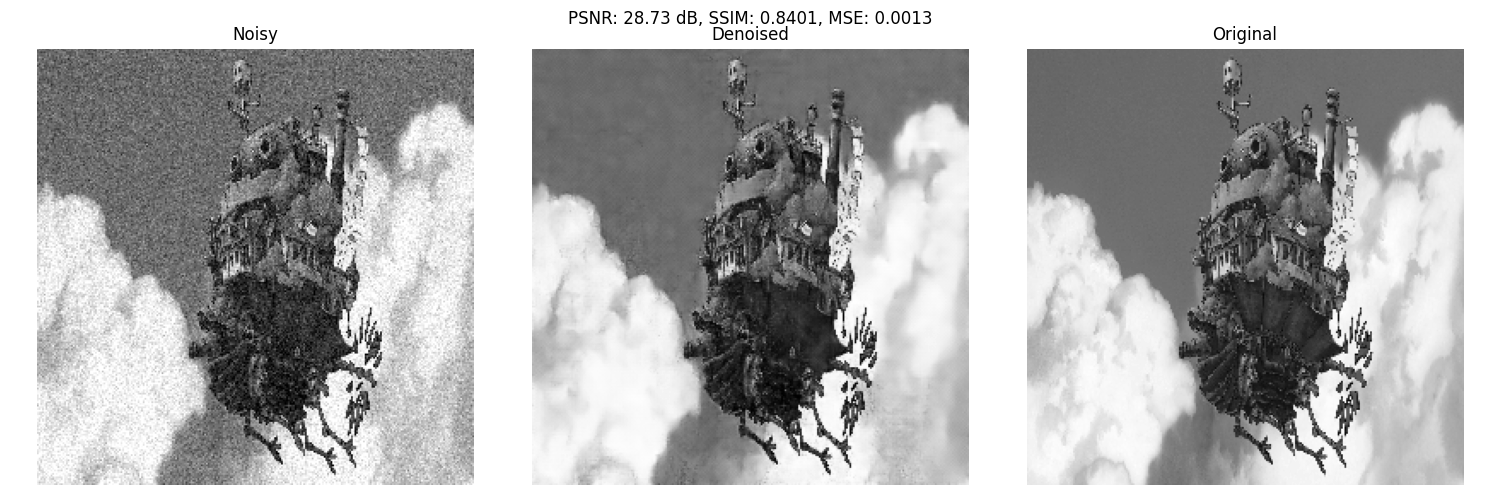
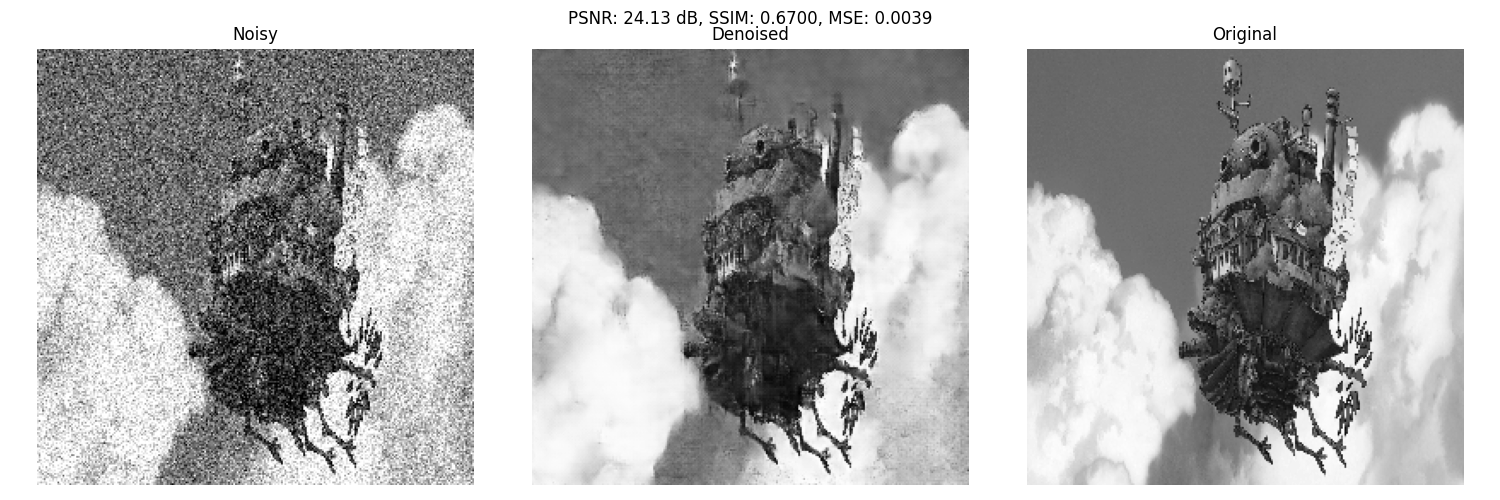
Update_complieted

diff --git a/DenoiseImages-NoOrignal.py b/DenoiseImages-NoOrignal.py
@@ -3,7 +3,7 @@ import glob
 import numpy as np
 import tensorflow as tf
 from keras import layers, Model
-from keras.preprocessing.image import load_img, img_to_array
+from keras.utils import load_img, img_to_array
 import matplotlib.pyplot as plt
 
 def multi_scale_conv_block(inputs, filters):
@@ -55,7 +55,7 @@ def unet_generator(input_size=(256, 256, 1)):
 
 # 載入已訓練好的生成器權重
 generator = unet_generator()
-model_weights = 'C:\\Users\\Wayne\\Documents\\GitHub\\Denoise-Project\\training_checkpoints\\generator_epoch_30'
+model_weights = 'C:\\Users\\ytes6\\OneDrive\\文件\\GitHub\\Project-Denoise\\training_checkpoints\\generator_epoch_34'
 # model_weights = 'best_generator_model.h5'
 generator.load_weights(model_weights)  # 請替換為您的實際權重檔路徑
 
@@ -71,16 +71,16 @@ def load_images_from_folder(folder, target_size=(256, 256)):
     return np.array(images), filenames
 
 # 指定雜訊圖像資料夾
-noisy_folder = 'D:\\GitHub\\Noise'  # 請根據實際狀況修改
+noisy_folder = 'D:\\Denoise\\Final_TestImage(Noise Image)'  # 請根據實際狀況修改
 noisy_images, noisy_filenames = load_images_from_folder(noisy_folder)
 print(f"共加載 {len(noisy_images)} 張雜訊圖像，開始去雜訊...")
 
-denoised_output_folder = 'C:\\Users\\Wayne\\Documents\\GitHub\\Denoise-Project\\Visualization_result_no'
+denoised_output_folder = 'C:\\Users\\ytes6\\OneDrive\\文件\\GitHub\\Project-Denoise\\Visualization_result_no'
 if not os.path.exists(denoised_output_folder):
     os.makedirs(denoised_output_folder)
 
 # 新增一個資料夾來儲存可視化結果
-visualization_output_folder = 'C:\\Users\\Wayne\\Documents\\GitHub\\Denoise-Project\\Visualization_result_no'
+visualization_output_folder = 'C:\\Users\\ytes6\\OneDrive\\文件\\GitHub\\Project-Denoise\\Visualization_result_no'
 if not os.path.exists(visualization_output_folder):
     os.makedirs(visualization_output_folder)
 

diff --git a/DenoiseImages.py b/DenoiseImages.py
@@ -60,7 +60,7 @@ def unet_generator(input_size=(256, 256, 1)):
 
 print("加載生成器模型...")
 generator = unet_generator()
-model_weights = 'C:\\Users\\Wayne\\Documents\\GitHub\\Denoise-Project\\training_checkpoints\\generator_epoch_30' # 替換為您的權重檔路徑
+model_weights = 'C:\\Users\\ytes6\\OneDrive\\文件\\GitHub\\Project-Denoise\\training_checkpoints\\generator_epoch_34' # 替換為您的權重檔路徑
 # model_weights = 'best_generator_model.h5'
 generator.load_weights(model_weights)
 print(f"已加載模型權重：{model_weights}")
@@ -81,9 +81,9 @@ def load_images_from_folder(folder, target_size=(256, 256)):
     return np.array(images), filenames
 
 
-original_folder = 'D:\\Denoise\\Grayscale'
-noisy_folder = 'D:\\Denoise\\Noise'
-denoised_output_folder = 'C:\Users\ytes6\OneDrive\文件\GitHub\Project-Denoise\Visualization_result'
+original_folder = 'D:\\Denoise\\Final_TestImage(Grayscale)'
+noisy_folder = 'D:\\Denoise\\Final_TestImage(Noise Image)'
+denoised_output_folder = 'C:\\Users\\ytes6\\OneDrive\\文件\\GitHub\\Project-Denoise\\Visualization_result'
 
 if not os.path.exists(denoised_output_folder):
     os.makedirs(denoised_output_folder)
@@ -107,7 +107,7 @@ mse_list = []
 num_images_to_visualize = 5
 
 # 新增可視化存檔路徑
-visualization_save_folder = 'C:\Users\ytes6\OneDrive\文件\GitHub\Project-Denoise\Visualization_result'
+visualization_save_folder = 'C:\\Users\\ytes6\\OneDrive\\文件\\GitHub\\Project-Denoise\\Visualization_result'
 if not os.path.exists(visualization_save_folder):
     os.makedirs(visualization_save_folder)
 

diff --git a/main.py b/main.py
@@ -136,7 +136,7 @@ print(f"測試集大小：{X_test.shape[0]} 張圖像")
 
 # 6. 建立 TensorFlow Dataset
 batch_size = 4
-epochs = 50
+epochs = 100
 
 def create_dataset(noisy, clean, batch_size=8, shuffle=True):
     dataset = tf.data.Dataset.from_tensor_slices((noisy, clean))
@@ -161,7 +161,7 @@ mse_loss = tf.keras.losses.MeanSquaredError()
 generator_optimizer = tf.keras.optimizers.Adam(learning_rate=1e-4)
 discriminator_optimizer = tf.keras.optimizers.Adam(learning_rate=1e-4)
 
-lambda_value = 10.0
+lambda_value = 20.0
 
 # 9. 定義訓練和驗證步驟
 @tf.function
@@ -234,7 +234,7 @@ train_mse_losses = []
 val_gen_losses = []
 val_mse_losses = []
 
-patience = 5
+patience = 10
 best_val_loss = np.inf
 patience_counter = 0
 

diff --git a/2-Grayscale.py b/2-Grayscale.py
@@ -1,8 +1,11 @@
 from PIL import Image
 import os
 
-input_dir = 'D:\Denoise\Flickr2K'
-output_dir = 'D:\Denoise\Grayscale'
+# input_dir = 'D:\Denoise\Flickr2K'
+# output_dir = 'D:\Denoise\Grayscale'
+
+input_dir = 'C:\\Users\\ytes6\\OneDrive\\文件\\GitHub\\Project-Denoise\\Final_TestImage(Clean Image)'
+output_dir = 'C:\\Users\\ytes6\\OneDrive\\文件\\GitHub\\Project-Denoise\\Final_TestImage(Grayscale)'
 
 def convert_to_grayscale(input_dir, output_dir):
     if not os.path.exists(output_dir):

diff --git a/3-Noise.py b/3-Noise.py
@@ -44,8 +44,11 @@ def add_noise(image):
     return noisy_image
 
 # 資料夾路徑
-input_folder = 'D:\\Denoise\\Grayscale'
-output_folder = 'D:\\Denoise\\Noise'
+# input_folder = 'D:\\Denoise\\Grayscale'
+# output_folder = 'D:\\Denoise\\Noise'
+
+input_folder = 'D:\\Denoise\\Final_TestImage(Grayscale)'
+output_folder = 'D:\\Denoise\\Final_TestImage(Noise Image)'
 
 # 創建輸出資料夾（如果不存在）
 if not os.path.exists(output_folder):
